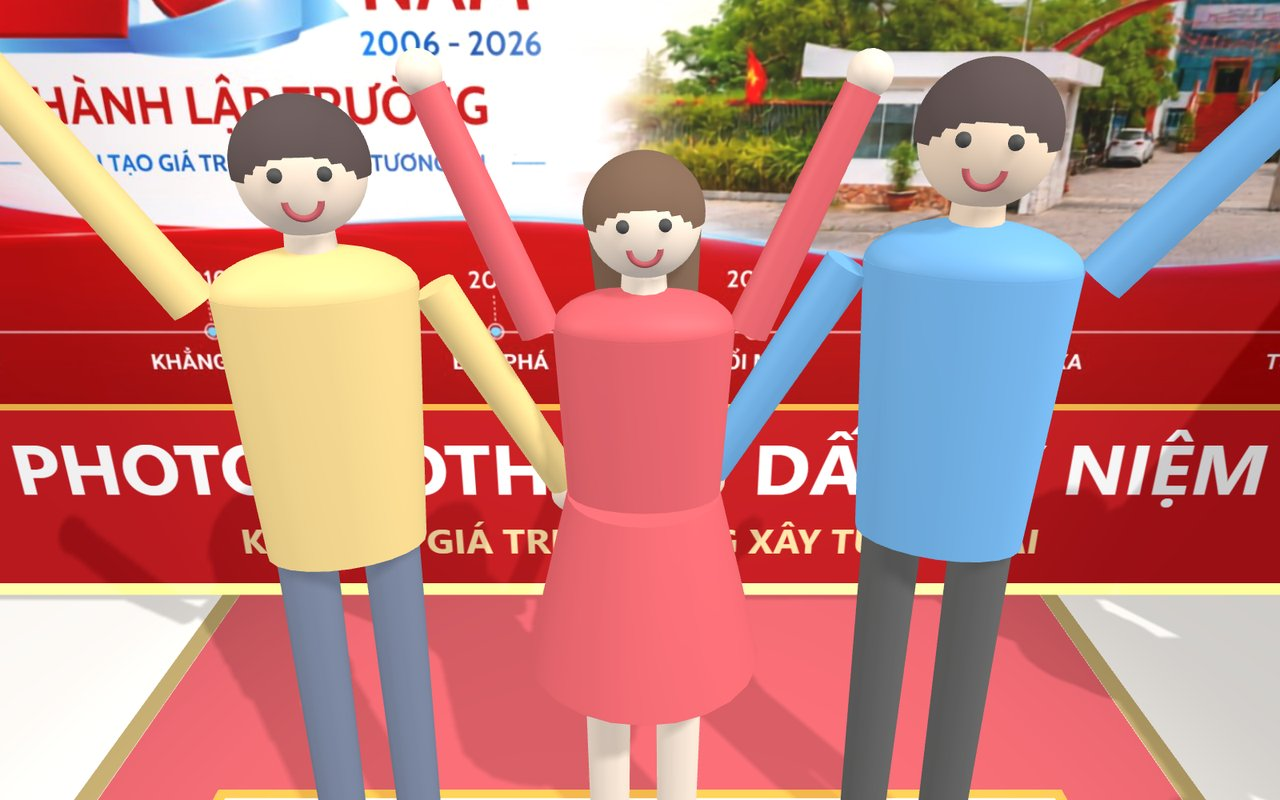
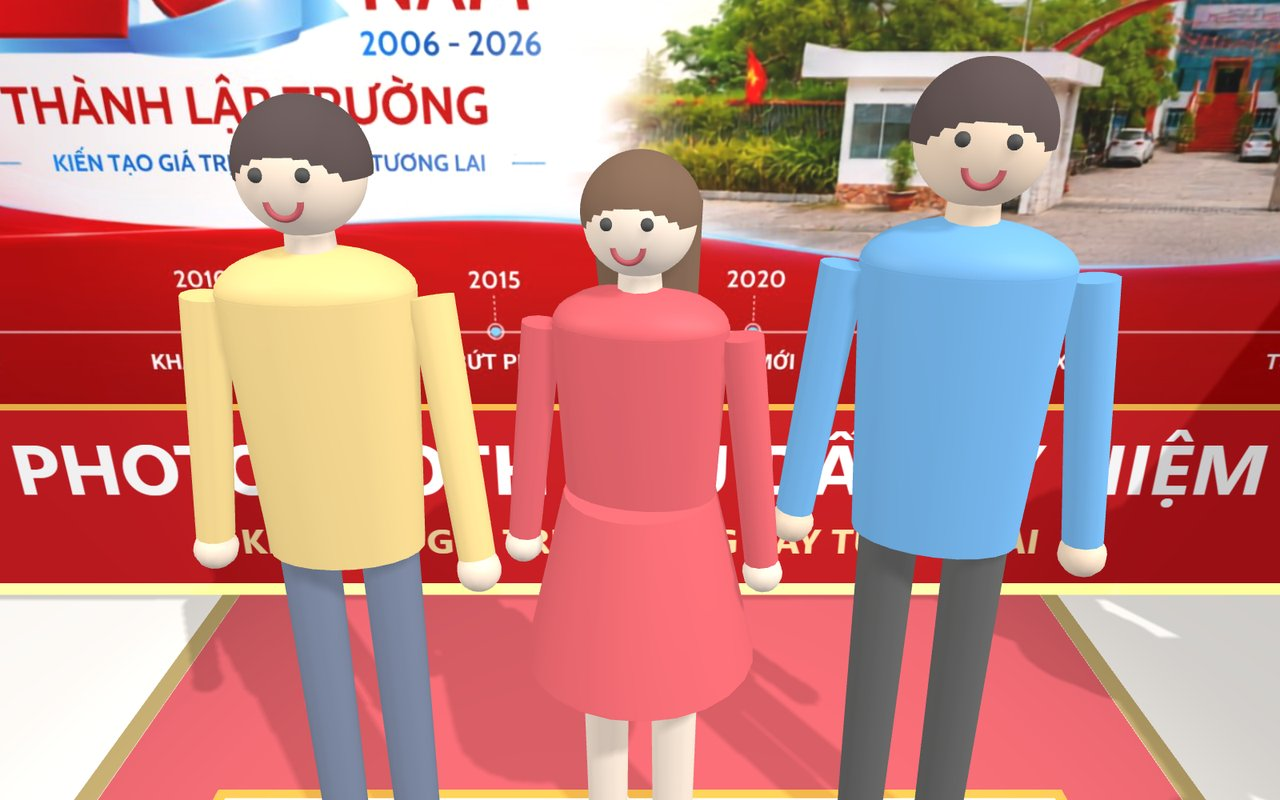
Bo may in anh: khach chup xong quet QR tai anh ve dien thoai
- Go mo hinh 3D may in, to anh in va hai buoc in anh / cam anh ra ve
- Hoat canh con 4 buoc: cham man hinh, tao dang, chup, quet QR
- Buoc 4: ca nhom lai gan kiosk quet ma QR
- README: bo noi dung may in, cap nhat anh va quy trinh 4 buoc

diff --git a/gian-photobooth-20-nam-3d.html b/gian-photobooth-20-nam-3d.html
@@ -22,7 +22,7 @@
   .hint{font-size:11.5px;color:#7a6a6c;margin-top:8px}
   body.clean .panel,body.clean #title,body.clean #cap,body.clean #big{opacity:0;pointer-events:none;transition:opacity .25s}
   #steps{position:fixed;left:50%;top:46px;transform:translateX(-50%);display:flex;flex-wrap:wrap;justify-content:center;gap:6px;z-index:15;transition:opacity .25s;max-width:calc(100vw - 400px)}
-  .st{background:rgba(255,255,255,.9);border:2px solid transparent;border-radius:12px;padding:5px 9px;font-size:11.5px;line-height:1.25;cursor:pointer;font-family:inherit;color:#5a4a4c;text-align:left;width:116px}
+  .st{background:rgba(255,255,255,.9);border:2px solid transparent;border-radius:12px;padding:5px 10px;font-size:11.5px;line-height:1.25;cursor:pointer;font-family:inherit;color:#5a4a4c;text-align:left;width:132px}
   .st b{display:block;font-size:11px;color:#a3151b}
   .st.on{border-color:#d8232a;background:#fff;color:#2a1a1c;box-shadow:0 3px 12px rgba(216,35,42,.25)}
   .st.on b{color:#d8232a}
@@ -64,8 +64,7 @@
   <button class="st" data-i="0"><b>1 · Chạm màn hình</b>Chọn khung ảnh, bấm bắt đầu</button>
   <button class="st" data-i="1"><b>2 · Vào vạch</b>Lùi về vạch, đếm ngược 3-2-1</button>
   <button class="st" data-i="5"><b>3 · Chụp</b>Đèn flash, xem lại ảnh</button>
-  <button class="st" data-i="6"><b>4 · Quét QR</b>Ảnh về điện thoại</button>
-  <button class="st" data-i="7"><b>5 · In ảnh</b>Máy in nhả tờ ảnh, cầm về</button>
+  <button class="st" data-i="6"><b>4 · Quét QR</b>Tải ảnh về điện thoại</button>
 </div>
 <div id="title">Photobooth Lưu Dấu Kỷ Niệm · 20 năm ĐH Kiến trúc Đà Nẵng</div>
 <div id="big"></div>
@@ -175,28 +174,6 @@ const balGeo=new THREE.SphereGeometry(.13,18,14),balM=[M(RED,{roughness:.25}),M(
 [[-2.72,-1.72],[2.72,-1.78]].forEach(([x,z])=>{mesh(new THREE.CylinderGeometry(.2,.15,.4,18),M(WHITE),x,.2,z,booth);[[0,.75,0,.3],[-.12,.6,.08,.22],[.13,.62,-.06,.22],[0,1.05,0,.2]].forEach(([dx,y,dz,r])=>mesh(new THREE.SphereGeometry(r,14,12),M(0x3f8f4a,{roughness:.9}),x+dx,y,z+dz,booth))});
 const posts=[[1.75,2.45],[2.3,1.85],[2.85,1.25]];posts.forEach(([x,z])=>{const gm=M(GOLD,{metalness:.7,roughness:.3});mesh(new THREE.CylinderGeometry(.14,.16,.03,18),gm,x,.015,z,booth);mesh(new THREE.CylinderGeometry(.022,.022,.95,12),gm,x,.49,z,booth);mesh(new THREE.SphereGeometry(.04,12,10),gm,x,.98,z,booth)});
 for(let i=0;i<2;i++){const a=new THREE.Vector3(posts[i][0],.88,posts[i][1]),b=new THREE.Vector3(posts[i+1][0],.88,posts[i+1][1]);const r=mesh(new THREE.CylinderGeometry(.015,.015,a.distanceTo(b),8),M(RED),0,0,0,booth);r.position.copy(a).add(b).multiplyScalar(.5);r.lookAt(b);r.rotateX(Math.PI/2)}
-// ---------- máy in ảnh ----------
-const printer=new THREE.Group();printer.position.set(-1.05,0,1.7);scene.add(printer);
-mesh(new THREE.BoxGeometry(.52,.85,.52),M(WHITE),0,.425,0,printer);
-mesh(new THREE.BoxGeometry(.55,.04,.55),M(GOLD,{metalness:.5,roughness:.3}),0,.87,0,printer);
-const prT=canvasTex(512,256,(c,w,h)=>{c.fillStyle='#d8232a';c.fillRect(0,0,w,h);c.fillStyle='#f2b84b';c.fillRect(0,0,w,14);c.fillRect(0,h-14,w,14);
-  c.fillStyle='#fff';c.textAlign='center';c.font='bold 56px Segoe UI,sans-serif';c.fillText('NHẬN ẢNH IN',w/2,110);c.font='bold 40px Segoe UI,sans-serif';c.fillText('TẠI ĐÂY',w/2,175)});
-mesh(new THREE.PlaneGeometry(.46,.23),new THREE.MeshStandardMaterial({map:prT,roughness:.6}),0,.5,.262,printer).castShadow=false;
-mesh(new THREE.BoxGeometry(.44,.24,.46),M(0x2f3236,{roughness:.45}),0,1.01,0,printer);
-mesh(new THREE.BoxGeometry(.46,.03,.48),M(0x17191c),0,1.145,0,printer);
-mesh(new THREE.BoxGeometry(.3,.028,.02),M(0x0b0c0e),0,.95,.232,printer);
-mesh(new THREE.BoxGeometry(.34,.012,.24),M(0x3a3d42),0,.928,.345,printer);
-const pled=mesh(new THREE.SphereGeometry(.013,10,8),new THREE.MeshBasicMaterial({color:0x33dd55}),.17,1.06,.232,printer);
-const photoT=useImg(canvasTex(640,460,(c,w,h)=>{c.fillStyle='#fff';c.fillRect(0,0,w,h);
-  c.fillStyle='#ffe3e4';c.fillRect(26,26,w-52,300);c.strokeStyle='#d8232a';c.lineWidth=8;c.strokeRect(26,26,w-52,300);
-  [['#f2b84b',190],['#d8232a',320],['#2f7de1',450]].forEach(([col,x])=>{c.fillStyle='#f2c9a5';c.beginPath();c.arc(x,150,32,0,7);c.fill();c.fillStyle=col;c.fillRect(x-34,190,68,120)});
-  logoAt(c,62,394,84);logoAt(c,w-62,394,84);c.fillStyle='#d8232a';c.textAlign='center';c.font='bold 33px Segoe UI,sans-serif';c.fillText('PHOTOBOOTH LƯU DẤU KỶ NIỆM',w/2,378);
-  c.fillStyle='#a3151b';c.font='bold 25px Segoe UI,sans-serif';c.fillText('20 NĂM ĐH KIẾN TRÚC ĐÀ NẴNG · 2006–2026',w/2,424)}));
-const photoMat=new THREE.MeshStandardMaterial({map:photoT,roughness:.55,side:THREE.DoubleSide});
-const photo=mesh(new THREE.PlaneGeometry(.2,.14),photoMat,0,.947,.245,printer);
-photo.rotation.set(-Math.PI/2,0,Math.PI);photo.visible=false;photo.castShadow=false;
-let printing=false,prog=0;
-
 mesh(new THREE.BoxGeometry(1.9,.3,.7),M(RED),-2.05,.15,2.2,booth);
 const nT=canvasTex(1024,160,(c,w,h)=>{c.fillStyle='#d8232a';c.fillRect(0,0,w,h);c.fillStyle='#fff';c.textAlign='center';c.textBaseline='middle';c.font='bold 72px Segoe UI,sans-serif';c.fillText('NĂM THÀNH LẬP · 2006–2026',w/2,h/2+4)});
 mesh(new THREE.PlaneGeometry(1.86,.28),new THREE.MeshStandardMaterial({map:nT}),-2.05,.15,2.551,booth).castShadow=false;
@@ -254,13 +231,9 @@ function drawScreen(state,n){_scr=[state,n];const c=scrT._ctx,w=384,h=512;c.fill
   if(state==='review'){c.fillStyle='#ffe3e4';c.fillRect(30,40,w-60,340);c.strokeStyle='#d8232a';c.lineWidth=10;c.strokeRect(30,40,w-60,340);
     [['#f2b84b',120],['#d8232a',192],['#2f7de1',264]].forEach(([col,x])=>{c.fillStyle='#f2c9a5';c.beginPath();c.arc(x,170,30,0,7);c.fill();c.fillStyle=col;c.fillRect(x-32,205,64,160)});
     c.fillStyle='#d8232a';c.font='bold 40px Segoe UI';c.fillText('Đẹp quá! ✓',w/2,450)}
-  if(state==='print'){c.fillStyle='#2a1a1c';c.fillRect(0,0,w,h);c.fillStyle='#f2b84b';c.font='bold 44px Segoe UI';c.fillText('ĐANG IN ẢNH',w/2,150);
-    c.fillStyle='#fff';c.font='90px Segoe UI';c.fillText('🖨',w/2,272);
-    c.strokeStyle='#fff';c.lineWidth=6;c.strokeRect(50,320,w-100,40);c.fillStyle='#d8232a';c.fillRect(56,326,(w-112)*.62,28);
-    c.fillStyle='#fff';c.font='26px Segoe UI';c.fillText('Vui lòng chờ ~12 giây',w/2,420)}
   if(state==='qr'){c.fillStyle='#d8232a';c.font='bold 32px Segoe UI';c.fillText('QUÉT QR NHẬN ẢNH',w/2,60);c.fillStyle='#222';const s=26,ox=(w-s*11)/2,oy=95;
     for(let r=0;r<11;r++)for(let q=0;q<11;q++){const corner=(r<3&&q<3)||(r<3&&q>7)||(r>7&&q<3);if(corner||((r*7+q*13+r*q)%3===0))c.fillRect(ox+q*s,oy+r*s,s,s)}
-    c.fillStyle='#555';c.font='24px Segoe UI';c.fillText('Ảnh về điện thoại sau 5 giây',w/2,440)}
+    c.fillStyle='#555';c.font='24px Segoe UI';c.fillText('Quét để tải ảnh về điện thoại',w/2,440)}
   scrT.needsUpdate=true}
 
 // ---------- people ----------
@@ -282,8 +255,6 @@ function person({shirt,pants,skin=0xf2c9a5,hair=0x1c1414,h=1.65,longHair=false,s
     a.userData={s,tz:s*.12,tx:0};a.rotation.z=s*.12;return a});
   g.userData={arms,head:hd,target:new THREE.Vector3()};g.traverse(o=>{if(o.isMesh)o.castShadow=true});scene.add(g);return g}
 const P=[person({shirt:GOLD,pants:0x34405e,h:1.68}),person({shirt:RED,skirt:true,hair:0x3a2216,longHair:true,h:1.58,skin:0xf7d3b3}),person({shirt:BLUE,pants:0x222222,h:1.74,skin:0xe8b98f})];
-const held=mesh(new THREE.PlaneGeometry(.2,.14),photoMat,0,-.64,.07,P[1].userData.arms[1]);
-held.rotation.set(1.0,0,0);held.visible=false;held.castShadow=false;
 const SPOT=[[-.62,-.85],[0,-.9],[.62,-.85]], WAIT=[[.12,.55],[2.0,2.0],[2.55,2.45]];
 function setPose(i,l,r){const a=P[i].userData.arms;[l,r].forEach((p,k)=>{a[k].userData.tz=a[k].userData.s*p[0];a[k].userData.tx=p[1]})}
 function relax(){P.forEach((_,i)=>setPose(i,[.12,0],[.12,0]))}
@@ -321,21 +292,19 @@ setView('q',true);
 const cap=document.getElementById('cap'),big=document.getElementById('big'),flashEl=document.getElementById('flash');
 function doFlash(){flashEl.style.transition='none';flashEl.style.opacity=.9;flashLight.intensity=6;requestAnimationFrame(()=>requestAnimationFrame(()=>{flashEl.style.transition='opacity .7s';flashEl.style.opacity=0}));setTimeout(()=>flashLight.intensity=0,180)}
 const TL=[
- [3200,()=>{drawScreen('idle');big.textContent='';relax();printing=false;photo.visible=false;held.visible=false;P.forEach((_,i)=>goto(i,WAIT[i]));setPose(0,[.12,0],[.25,-1.35]);cap.textContent='Bước 1 · Khách chạm màn hình để bắt đầu, chọn khung ảnh'}],
+ [3200,()=>{drawScreen('idle');big.textContent='';relax();P.forEach((_,i)=>goto(i,WAIT[i]));setPose(0,[.12,0],[.25,-1.35]);cap.textContent='Bước 1 · Khách chạm màn hình để bắt đầu, chọn khung ảnh'}],
  [3000,()=>{relax();P.forEach((_,i)=>goto(i,SPOT[i]));cap.textContent='Bước 2 · Cả nhóm lùi về vạch “Đứng tại đây”'}],
  [1000,()=>{setPose(0,[2.6,0],[.5,0]);setPose(1,[2.75,0],[2.75,0]);setPose(2,[.5,0],[2.5,0]);drawScreen('count',3);big.textContent='3';cap.textContent='Bước 2 · Tạo dáng – đếm ngược…'}],
  [1000,()=>{drawScreen('count',2);big.textContent='2'}],
  [1000,()=>{drawScreen('count',1);big.textContent='1'}],
  [2600,()=>{big.textContent='📸';doFlash();drawScreen('review');cap.textContent='Bước 3 · Tách! Xem lại ảnh trên màn hình'}],
- [3600,()=>{big.textContent='';relax();setPose(1,[.12,0],[.3,-1.2]);drawScreen('qr');goto(1,[.12,.55]);cap.textContent='Bước 4 · Quét QR trên màn hình – ảnh về điện thoại'}],
- [3200,()=>{drawScreen('print');printing=true;prog=0;photo.visible=true;photo.scale.y=.001;held.visible=false;relax();goto(1,[-1.05,1.15]);cap.textContent='Bước 5 · Máy in nhả tờ ảnh – khoảng 12 giây/tấm'}],
- [3400,()=>{printing=false;photo.visible=false;held.visible=true;setPose(1,[.15,0],[.5,-1.0]);goto(1,[1.5,2.1]);cap.textContent='Bước 6 · Cầm tờ ảnh in kỷ niệm 20 năm ra về'}],
+ [4600,()=>{big.textContent='';relax();setPose(1,[.12,0],[.3,-1.2]);drawScreen('qr');goto(1,[.12,.55]);goto(0,[-.5,.35]);goto(2,[.7,.4]);cap.textContent='Bước 4 · Quét QR trên màn hình – tải ảnh về điện thoại'}],
 ];
 let ti=0,timer=null,playing=true;
 const stEls=[...document.querySelectorAll('.st')];
-const GRP=[0,1,1,1,1,2,3,4,4];function markStep(){const g=GRP[ti];stEls.forEach((e,k)=>e.classList.toggle('on',k===g))}
+const GRP=[0,1,1,1,1,2,3];function markStep(){const g=GRP[ti];stEls.forEach((e,k)=>e.classList.toggle('on',k===g))}
 stEls.forEach(e=>e.onclick=()=>{clearTimeout(timer);ti=+e.dataset.i;run()});
-function run(){markStep();if(ti<7){printing=false;photo.visible=false;held.visible=false}TL[ti][1]();if(playing)timer=setTimeout(()=>{ti=(ti+1)%TL.length;run()},TL[ti][0])}
+function run(){markStep();TL[ti][1]();if(playing)timer=setTimeout(()=>{ti=(ti+1)%TL.length;run()},TL[ti][0])}
 document.getElementById('play').onclick=e=>{playing=!playing;e.target.textContent=playing?'⏸ Tạm dừng':'▶ Chạy tiếp';clearTimeout(timer);if(playing){ti=(ti+1)%TL.length;run()}};
 document.getElementById('restart').onclick=()=>{clearTimeout(timer);ti=0;P.forEach((p,i)=>p.position.set(WAIT[i][0],0,WAIT[i][1]));run()};
 const hideUI=document.getElementById('hideUI'),showUI=document.getElementById('showUI');
@@ -364,8 +333,6 @@ function tick(){const dt=Math.min(clock.getDelta(),.05),t=clock.elapsedTime;
     p.userData.arms.forEach(a=>{a.rotation.z+=(a.userData.tz-a.rotation.z)*.12;a.rotation.x+=(a.userData.tx-a.rotation.x)*.12});
     p.userData.head.rotation.z=Math.sin(t*1.5+i*2)*.04});
   led.material.color.setHex(Math.sin(t*6)>0?0x33dd55:0x116622);
-  if(printing){prog=Math.min(1,prog+dt/1.9);photo.scale.y=Math.max(prog,.001);photo.position.z=.245+.07*prog}
-  pled.material.color.setHex(printing?(Math.sin(t*14)>0?0xffb020:0x5a3a00):0x33dd55);
   if(camGoal){camera.position.lerp(camGoal.p,.07);controls.target.lerp(camGoal.t,.07);if(camera.position.distanceTo(camGoal.p)<.02)camGoal=null}
   controls.update();renderer.render(scene,camera);requestAnimationFrame(tick)}
 tick();
